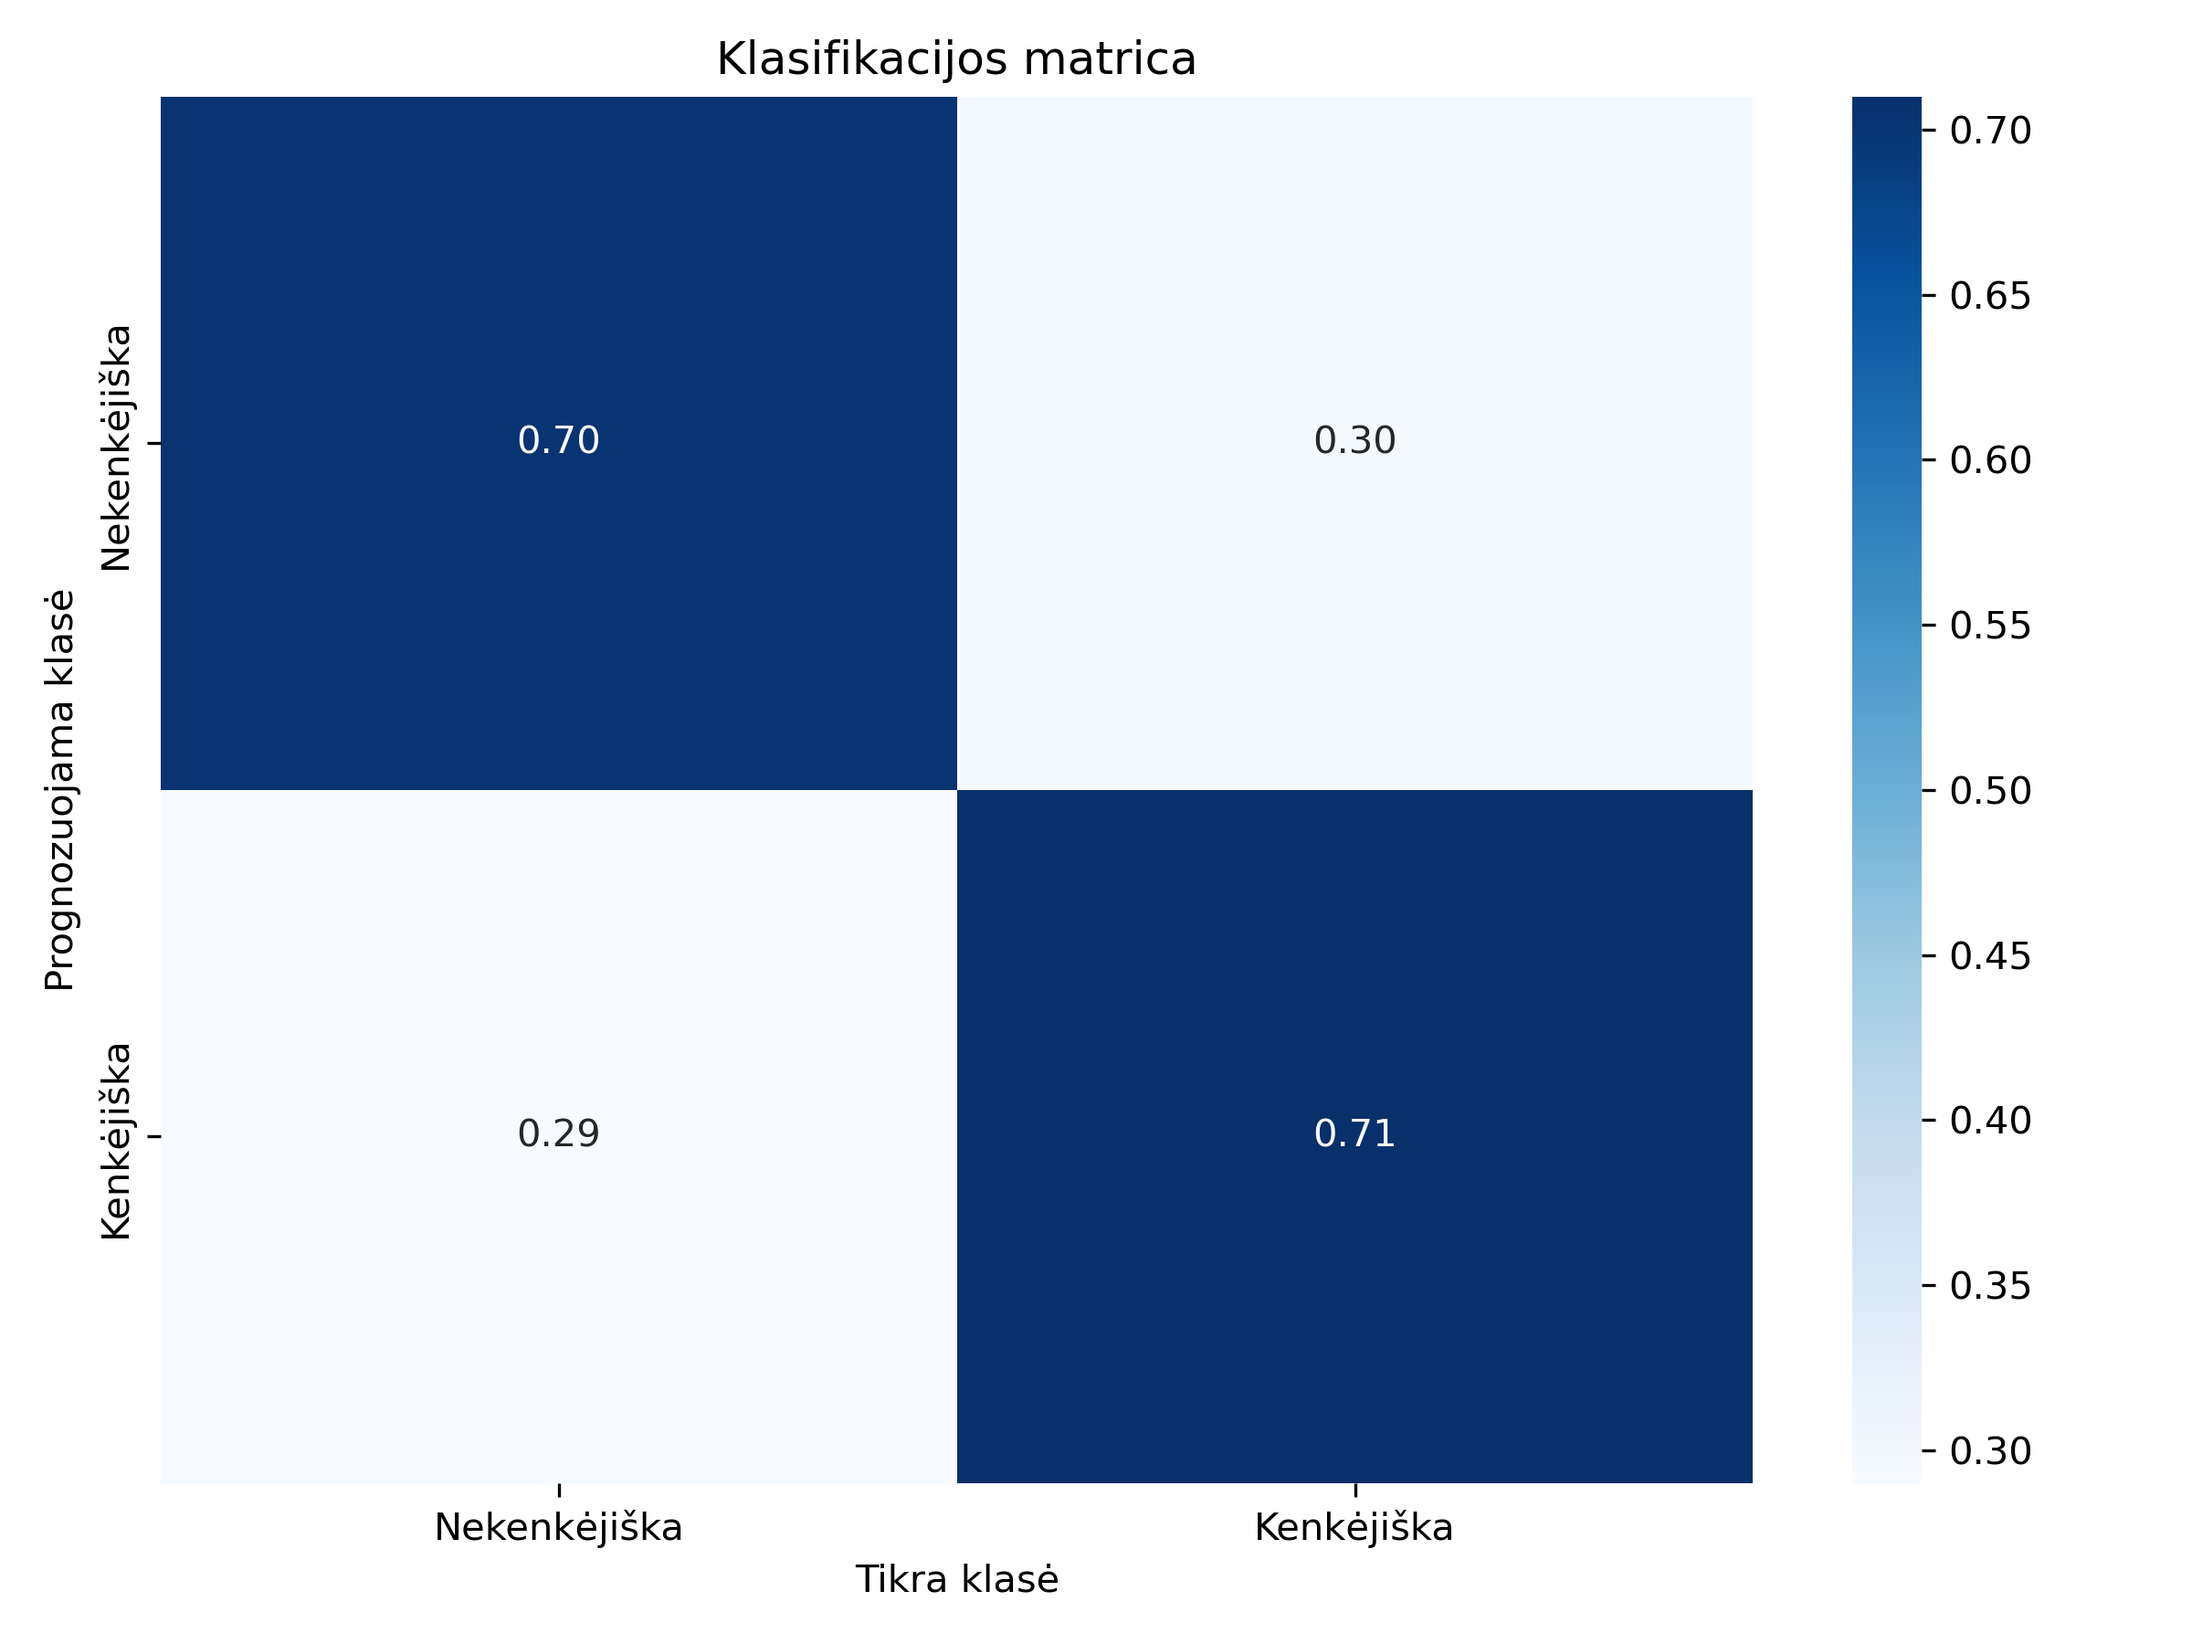
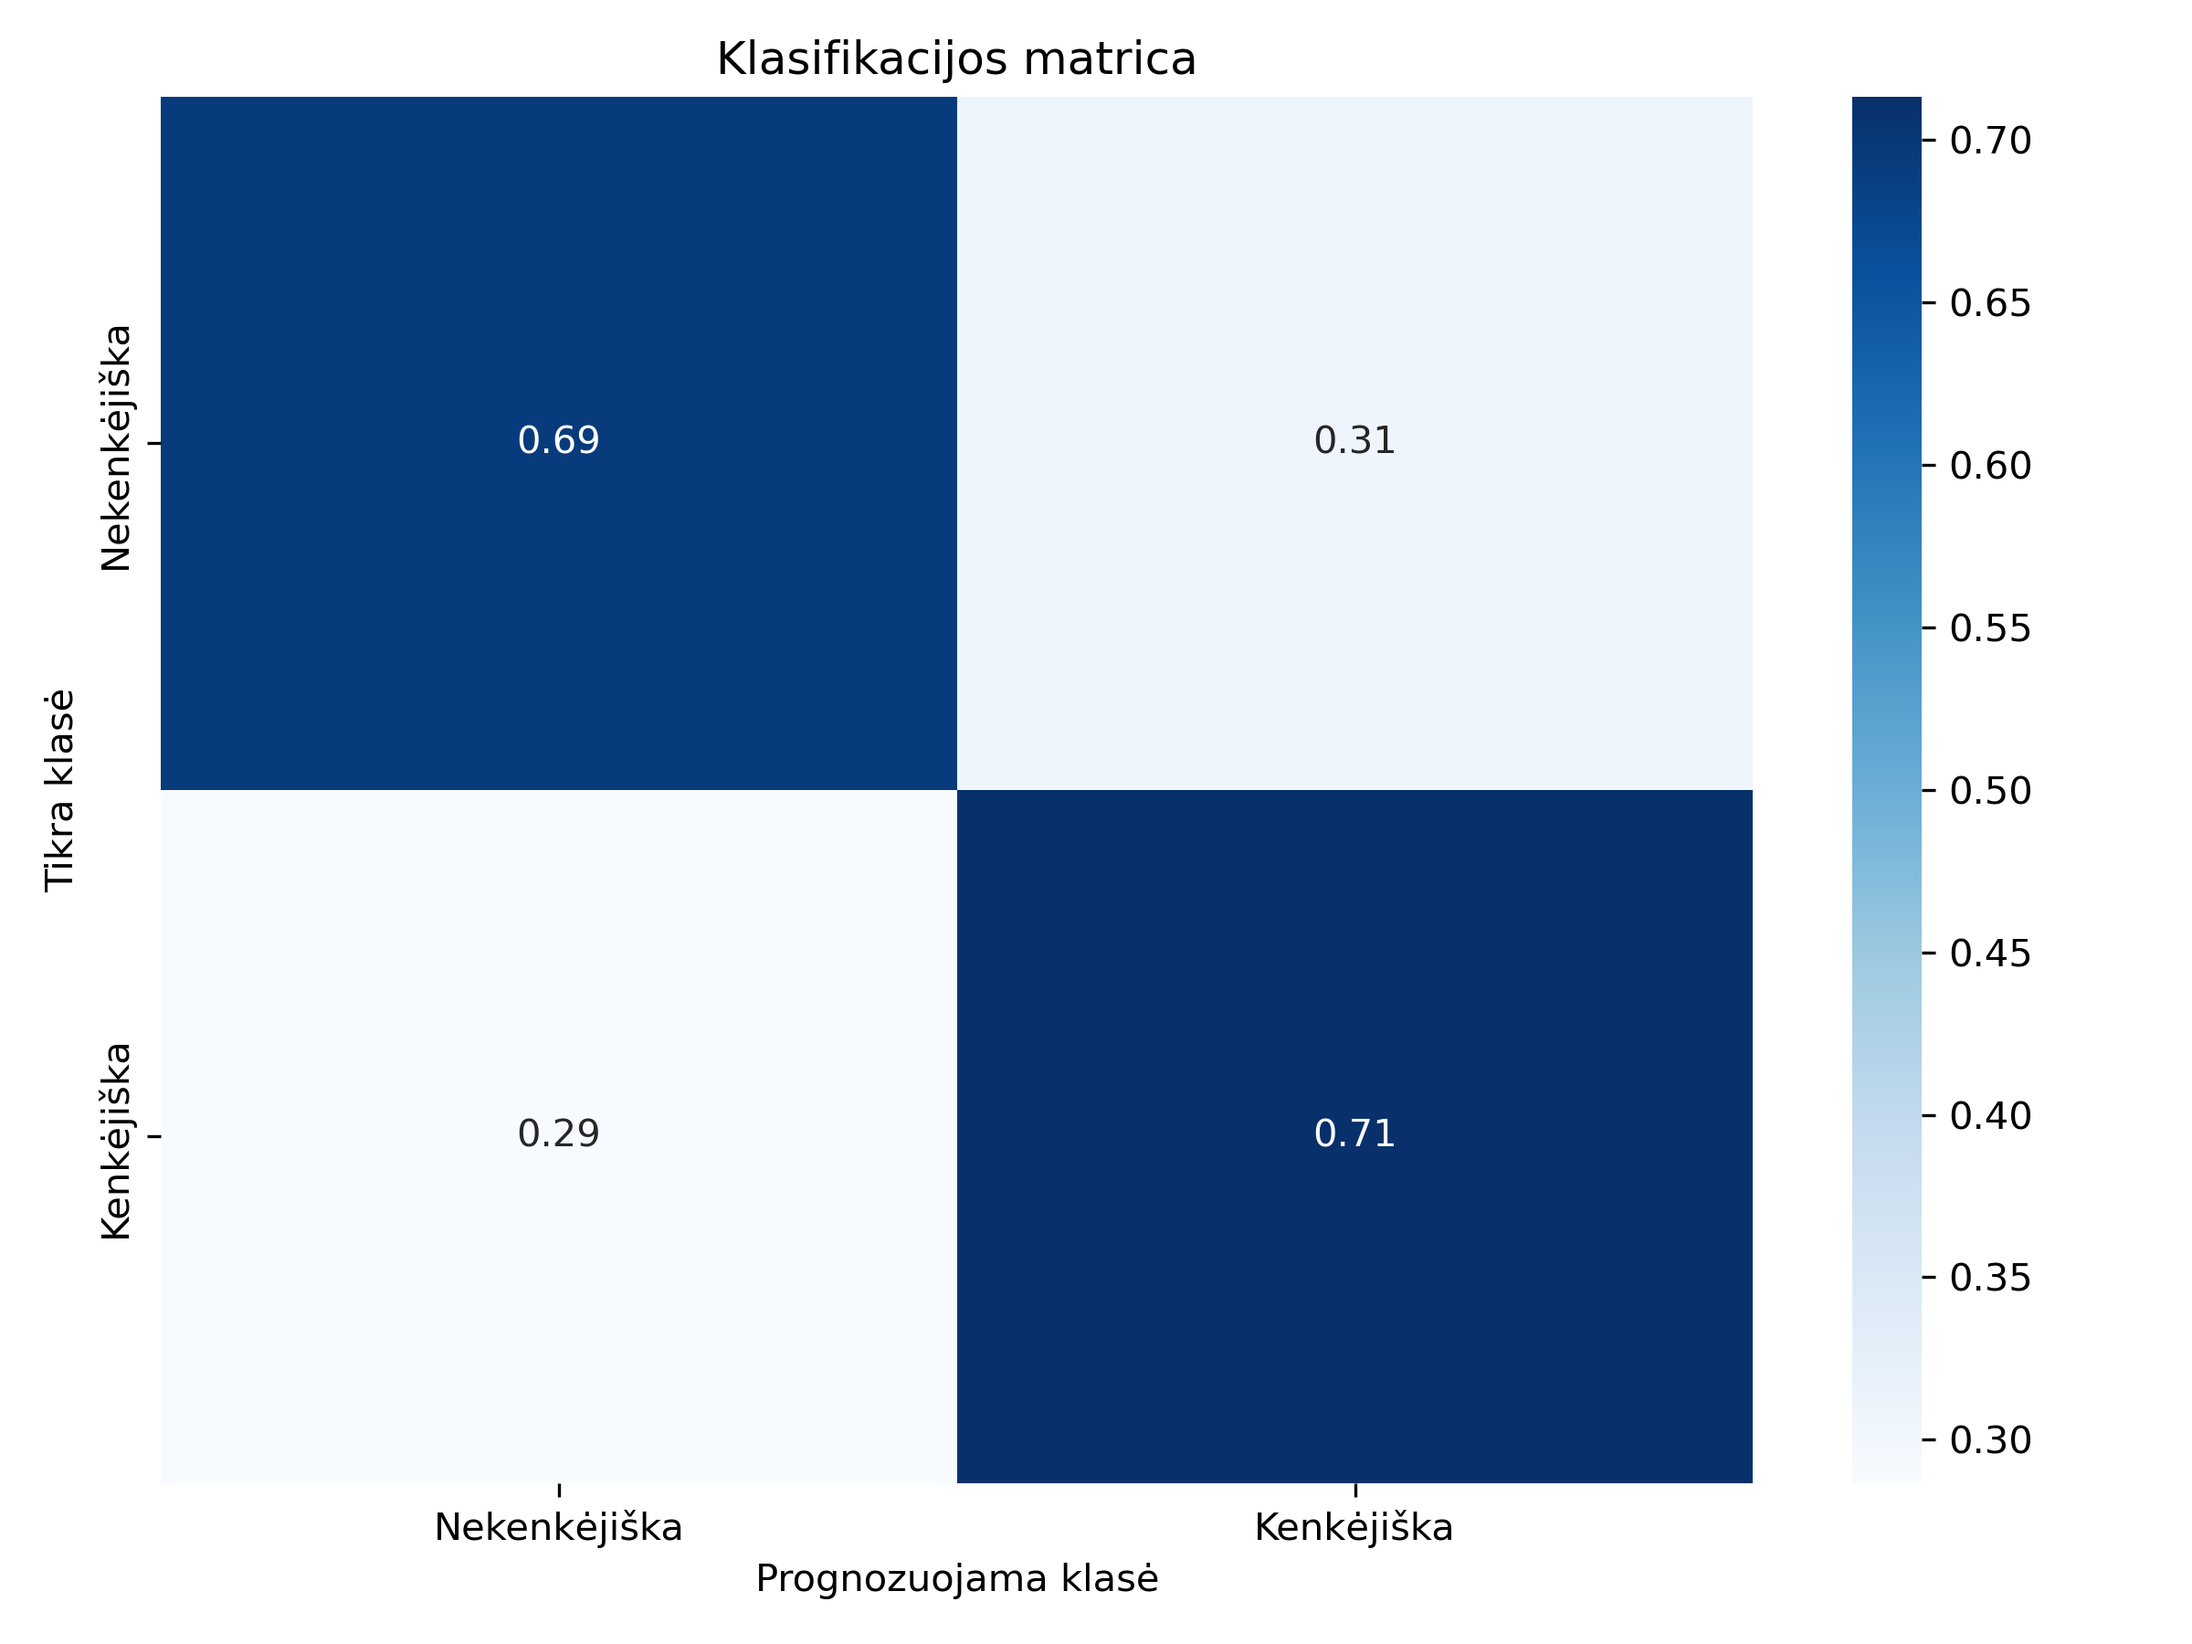
Add no obfuscation experiments

diff --git a/no_obfuscation/mca.py b/no_obfuscation/mca.py
@@ -1,0 +1,95 @@
+#%%
+import sys
+import numpy as np
+import pandas as pd
+from helpers.params import load_params
+import mlflow
+from helpers.logging import *
+import logging
+import abc
+from sklearn.metrics import classification_report, confusion_matrix, accuracy_score, precision_score, recall_score, f1_score, ConfusionMatrixDisplay
+import json
+import limeVerify
+import warnings
+from tqdm import tqdm
+from scripts.notify import Notifier
+#%%
+import os
+abspath = os.path.abspath(__file__)
+dname = os.path.dirname(abspath)
+os.chdir(dname)
+
+#%%
+logging.basicConfig(level=logging.INFO)
+warnings.filterwarnings("ignore")
+logger = logging.getLogger()
+tqdm.pandas(desc="Verifying")
+
+#%%
+d_params, o_params, m_params, t_params, v_params, mca_params, mca_cls_params = load_params(
+        "detector", "malgan", "metrics", "train", "valid", "mca", "mca_classifier")
+#%%
+class Experiment:
+    @timing
+    def __init__(self):
+        self.notifier = Notifier(thread_name=t_params["name"])
+        self.mca = mlflow.pyfunc.load_model(f"runs:/{mca_params['id']}/mca")
+        self.__loadData()
+        self.classifier = mlflow.sklearn.load_model(f"runs:/{mca_cls_params['id']}/mca_classifier")
+
+    @log
+    def __loadData(self, random_state=42):
+        df_ben = pd.DataFrame(np.load("../" + v_params["benign"]))
+        df_mal = pd.DataFrame(np.load("../" + v_params["malware"]))
+        df_ben = self.mca.predict(df_ben)
+        df_mal = self.mca.predict(df_mal)
+        df_ben['class'] = 0  # Benign = 0
+        df_mal['class'] = 1  # Malware = 1
+
+        self.df = pd.concat([df_ben, df_mal], ignore_index=True)
+        self.df = self.df.sample(
+            frac=1, random_state=random_state).reset_index(drop=True)
+
+    def __getY(self, keepObfuscated=False):
+        return self.df['class'].transform(lambda x: 1 if x == 2 and not keepObfuscated else x)
+
+    @property
+    def X(self):
+        return self.df.drop(columns=['class'])
+
+    @property
+    def y(self):
+        return self.__getY()
+
+    @property
+    def y_obf(self):
+        return self.__getY(keepObfuscated=True)
+
+    @log
+    @timing
+    def run(self):
+        y_pred = self.classifier.predict(self.X)
+        report = classification_report(self.y, y_pred)
+        confusion = confusion_matrix(self.y, y_pred, normalize='true')
+        print(report)
+        disp = ConfusionMatrixDisplay(
+            confusion_matrix=confusion, display_labels=['Benign', 'Malware'])
+        disp.plot().figure_.savefig("no_attack_mca.png")
+        with open("no_attack_mca.json", "w") as f:
+            f.write(self.metrics(y_pred))
+
+    def metrics(self, y_pred, keepObfuscated=False):
+        y_true = self.y if not keepObfuscated else self.y_obf
+        metrics = {
+            "accuracy": accuracy_score(y_true, y_pred),
+            "precision_macro": precision_score(y_true, y_pred, average="macro"),
+            "recall_macro": recall_score(y_true, y_pred, average="macro"),
+            "f1_macro": f1_score(y_true, y_pred, average="macro"),
+            "classification_report": classification_report(y_true, y_pred, output_dict=True),
+            "confusion_matrix": confusion_matrix(y_true, y_pred).tolist()
+        }
+        return json.dumps(metrics, indent=2)
+# %%
+exp = Experiment()
+#%%
+exp.run()

diff --git a/no_obfuscation/normal.py b/no_obfuscation/normal.py
@@ -1,0 +1,94 @@
+import sys
+import numpy as np
+import pandas as pd
+from helpers.params import load_params
+import mlflow
+from helpers.logging import *
+import logging
+import abc
+from sklearn.metrics import classification_report, confusion_matrix, accuracy_score, precision_score, recall_score, f1_score, ConfusionMatrixDisplay
+import json
+import limeVerify
+import warnings
+from tqdm import tqdm
+from scripts.notify import Notifier
+
+#%%
+import os
+abspath = os.path.abspath(__file__)
+dname = os.path.dirname(abspath)
+os.chdir(dname)
+
+logging.basicConfig(level=logging.INFO)
+warnings.filterwarnings("ignore")
+logger = logging.getLogger()
+tqdm.pandas(desc="Verifying")
+
+class Experiment:
+    @timing
+    def __init__(self):
+        self.notifier = Notifier(thread_name=t_params["name"])
+        self.__loadData()
+        self.detector = mlflow.sklearn.load_model(f"runs:/{d_params['id']}/BB")
+
+    @log
+    def __loadData(self, random_state=42):
+        df_ben = pd.DataFrame(np.load("../" + v_params["benign"]))
+        df_mal = pd.DataFrame(np.load("../" + v_params["malware"]))
+        df_ben['class'] = 0  # Benign = 0
+        df_mal['class'] = 1  # Malware = 1
+
+        self.df = pd.concat([df_ben, df_mal], ignore_index=True)
+        self.df = self.df.sample(
+            frac=1, random_state=random_state).reset_index(drop=True)
+
+    def __getY(self, keepObfuscated=False):
+        return self.df['class'].transform(lambda x: 1 if x == 2 and not keepObfuscated else x)
+
+    @property
+    def X(self):
+        return self.df.drop(columns=['class'])
+
+    @property
+    def y(self):
+        return self.__getY()
+
+    @property
+    def y_obf(self):
+        return self.__getY(keepObfuscated=True)
+
+    @abc.abstractmethod
+    def run(self):
+        pass
+
+    def metrics(self, y_pred, keepObfuscated=False):
+        y_true = self.y if not keepObfuscated else self.y_obf
+        metrics = {
+            "accuracy": accuracy_score(y_true, y_pred),
+            "precision_macro": precision_score(y_true, y_pred, average="macro"),
+            "recall_macro": recall_score(y_true, y_pred, average="macro"),
+            "f1_macro": f1_score(y_true, y_pred, average="macro"),
+            "classification_report": classification_report(y_true, y_pred, output_dict=True),
+            "confusion_matrix": confusion_matrix(y_true, y_pred).tolist()
+        }
+        return json.dumps(metrics, indent=2)
+
+
+class NormalCase(Experiment):
+    @log
+    @timing
+    def run(self):
+        y_pred = self.detector.predict(self.X)
+        report = classification_report(self.y, y_pred)
+        confusion = confusion_matrix(self.y, y_pred, normalize='true')
+        print(report)
+        disp = ConfusionMatrixDisplay(
+            confusion_matrix=confusion, display_labels=['Benign', 'Malware'])
+        disp.plot().figure_.savefig("./no_attack_normal_confusion.png")
+        with open("./no_attack_normal.json", "w") as f:
+            f.write(self.metrics(y_pred))
+
+if __name__ == '__main__':
+    d_params, o_params, m_params, t_params, v_params, mca_params, mca_cls_params = load_params(
+        "detector", "malgan", "metrics", "train", "valid", "mca", "mca_classifier")
+    NormalCase().run()

diff --git a/experiment.py b/experiment.py
@@ -118,7 +118,7 @@ class LimeCase(Experiment):
         return pdf.values
 
     @log
-    def printReports(self, y_true, y_pred, reportFile, confusionFile):
+    def printReports(self, y_true, y_pred, reportFile, confusionFile, keepObfuscated = False):
         report = classification_report(y_true, y_pred)
         confusion = confusion_matrix(y_true, y_pred, normalize='true')
         print(report)
@@ -126,7 +126,7 @@ class LimeCase(Experiment):
                                       'Benign', 'Malware'] if len(confusion) == 2 else ['Benign', 'Malware', 'Obfuscated'])
         disp.plot().figure_.savefig(confusionFile)
         with open(reportFile, "w") as f:
-            f.write(self.metrics(y_pred))
+            f.write(self.metrics(y_pred, keepObfuscated=keepObfuscated))
 
     @log
     @timing
@@ -140,7 +140,7 @@ class LimeCase(Experiment):
 
         y_verified = self.verify(y_pred, keepObfuscated=True)
         self.printReports(self.y_obf, y_verified,
-                          m_params["lime_obf"], m_params["lime_confusion_obf"])
+                          m_params["lime_obf"], m_params["lime_confusion_obf"], keepObfuscated=True)
         self.notifier.upload([m_params["lime_confusion_obf"]], "LIME (with MCA) case")
         logger.info(self.verifier.transform.cache_info())
         logger.info(self.verifier.verify.cache_info())
@@ -152,7 +152,7 @@ class LimeCategoricalCase(Experiment):
         self.verifier = limeVerify.CategoricalLimeVerify()
 
     @log
-    def printReports(self, y_true, y_pred, reportFile, confusionFile):
+    def printReports(self, y_true, y_pred, reportFile, confusionFile, keepObfuscated = False):
         report = classification_report(y_true, y_pred)
         confusion = confusion_matrix(y_true, y_pred, normalize='true')
         print(report)
@@ -160,7 +160,7 @@ class LimeCategoricalCase(Experiment):
                                       'Benign', 'Malware'] if len(confusion) == 2 else ['Benign', 'Malware', 'Obfuscated'])
         disp.plot().figure_.savefig(confusionFile)
         with open(reportFile, "w") as f:
-            f.write(self.metrics(y_pred))
+            f.write(self.metrics(y_pred, keepObfuscated=keepObfuscated))
     
     @log
     @timing
@@ -186,7 +186,7 @@ class LimeCategoricalCase(Experiment):
 
         y_verified = self.verify(y_pred, keep_obfuscated=True)
         self.printReports(self.y_obf, y_verified,
-                          m_params["lime_cat_obf"], m_params["lime_cat_confusion_obf"])
+                          m_params["lime_cat_obf"], m_params["lime_cat_confusion_obf"], keepObfuscated=True)
         self.notifier.upload([m_params["lime_cat_confusion_obf"]], "LIME (Fully Categorical) case")
         logger.info(self.verifier.verify.cache_info())
 

diff --git a/plots/tables/gen.py b/plots/tables/gen.py
@@ -43,23 +43,43 @@ def report_to_df_3d(data):
     return pd.DataFrame(
         lst, columns=("Klasė", "Preciziškumas", "Atkūrimas", "F1")
     )
+    
+#%% Accuracy collector
+def to_camel_case(snake_str):
+    return "".join(x.capitalize() for x in snake_str.lower().split("_"))
+class AccCollector:
+    def __init__(self):
+        self.acc = {}
+
+    def add(self, name, acc):
+        self.acc[name] = acc
+
+    def print(self):
+        for name, acc in self.acc.items():
+            print(f"Acc {name}: {round(acc, 3)}")
+
+    def latex(self):
+        return ["\\def\\acc{0}{{\\num{{{1}}}}}".format(to_camel_case(name), round(acc, 3)) for name, acc in self.acc.items()]
+            
+acc = AccCollector()
 #%% 2x2
-names = {"normal": "normal", "lime": "synthesis", "lime_cat": "lime"}
+names = {"normal": "normal_2x2", "lime": "synthesis_2x2", "lime_cat": "lime_2x2"}
 reports = [(name, f"../../metrics/{name}.json") for name in names.keys()]
 for name, report in reports:
     data = json.load(open(report, "r", encoding="utf-8"))
     df = report_to_df_2d(data)
-    acc = data["accuracy"]
-    print(f"Acc {names[name]}: {acc}")
-    df.to_csv(f"{names[name]}_2x2.csv", index=False, float_format="%.3f")
+    acc.add(name, data["accuracy"])
+    df.to_csv(f"{names[name]}.csv", index=False, float_format="%.3f")
     
 #%% 3x3
-names = {"lime_obf": "synthesis", "lime_cat_obf": "lime"}
+names = {"lime_obf": "synthesis_3x3", "lime_cat_obf": "lime_3x3"}
 reports = [(name, f"../../metrics/{name}.json") for name in names.keys()]
 for name, report in reports:
     data = json.load(open(report, "r", encoding="utf-8"))
     df = report_to_df_3d(data)
-    acc = data["accuracy"]
-    print(f"Acc {names[name]}: {acc}")
-    df.to_csv(f"{names[name]}_3x3.csv", index=False, float_format="%.3f")
+    acc.add(name, data["accuracy"])
+    df.to_csv(f"{names[name]}.csv", index=False, float_format="%.3f")
 # %%
+acc.print()
+with open("acc.tex", "w") as f:
+    f.writelines([f"{str}\n" for str in acc.latex()])

diff --git a/plots/confusion.py b/plots/confusion.py
@@ -43,8 +43,8 @@ def plot_confusion_matrix(
     )
 
     plt.title(title)
-    plt.xlabel("Tikra klasė")
-    plt.ylabel("Prognozuojama klasė")
+    plt.ylabel("Tikra klasė")
+    plt.xlabel("Prognozuojama klasė")
     plt.tight_layout()
 
 

diff --git a/plots/tables/acc.tex b/plots/tables/acc.tex
@@ -1,0 +1,5 @@
+\def\accNormal{\num{0.617}}
+\def\accLime{\num{0.707}}
+\def\accLimeCat{\num{0.669}}
+\def\accLimeObf{\num{0.626}}
+\def\accLimeCatObf{\num{0.422}}

diff --git a/no_obfuscation/limeVerify.py b/no_obfuscation/limeVerify.py
@@ -1,0 +1,1 @@
+../limeVerify.py
